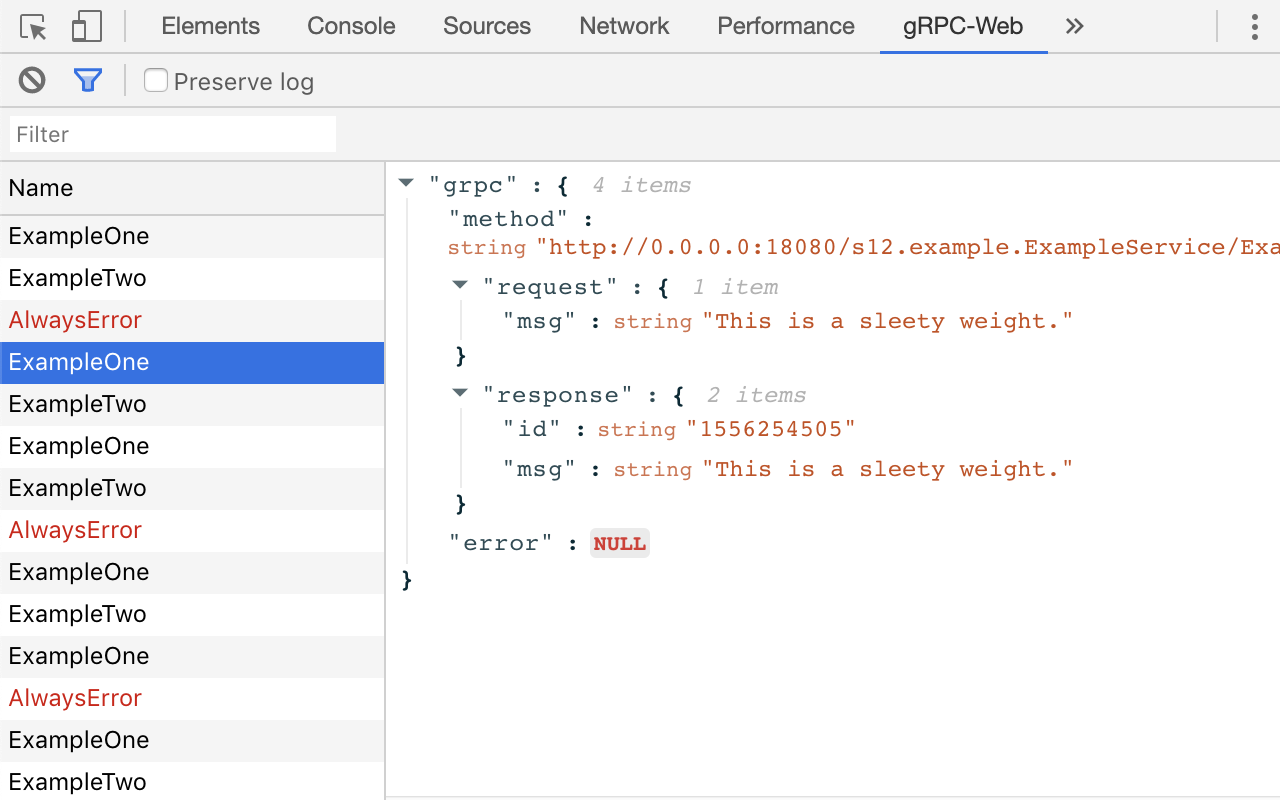
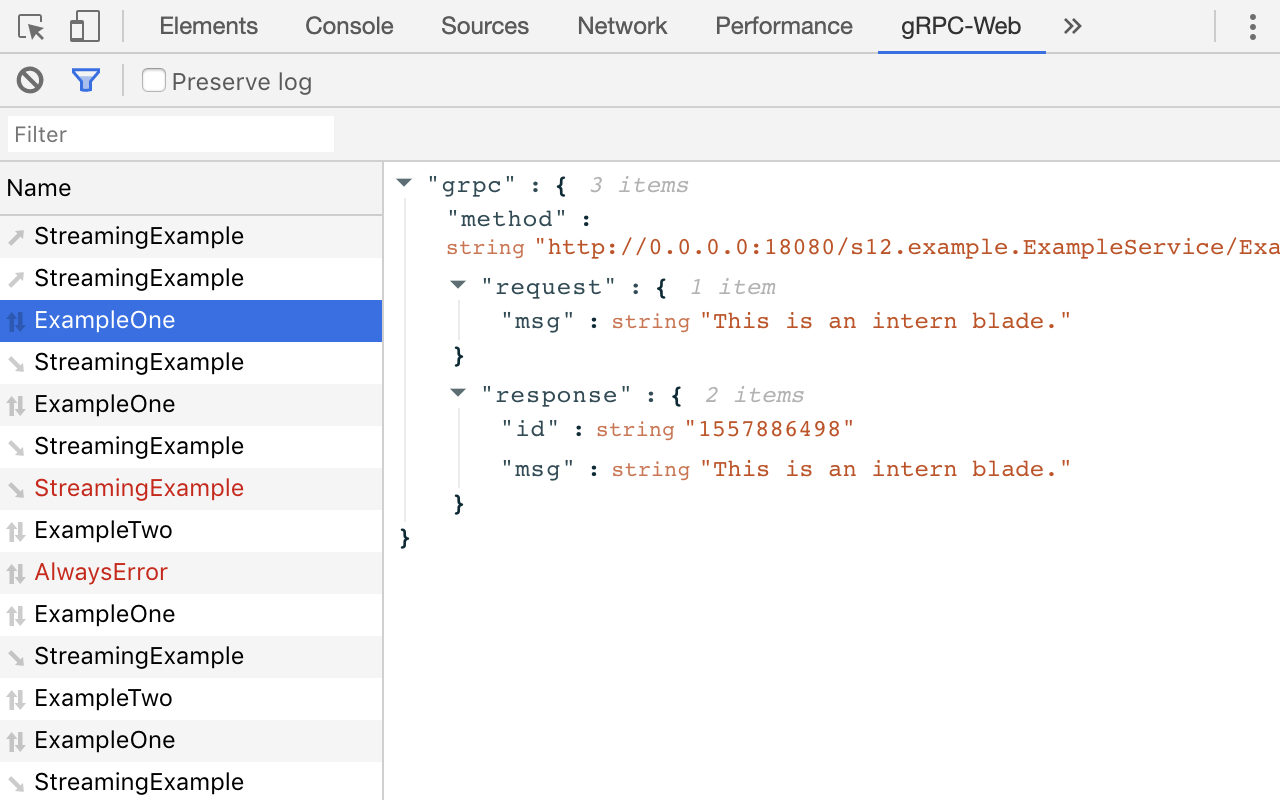
1.1.0 release (#32)

diff --git a/README.md b/README.md
@@ -3,7 +3,7 @@
 [![PRs Welcome](https://img.shields.io/badge/PRs-welcome-brightgreen.svg)](http://makeapullrequest.com)
 
 
-![gRPC-Web Dev Tools](screenshots/dev_tools.png)
+![gRPC-Web Dev Tools](screenshots/chrome_store.png)
 
 ## Installation
 
